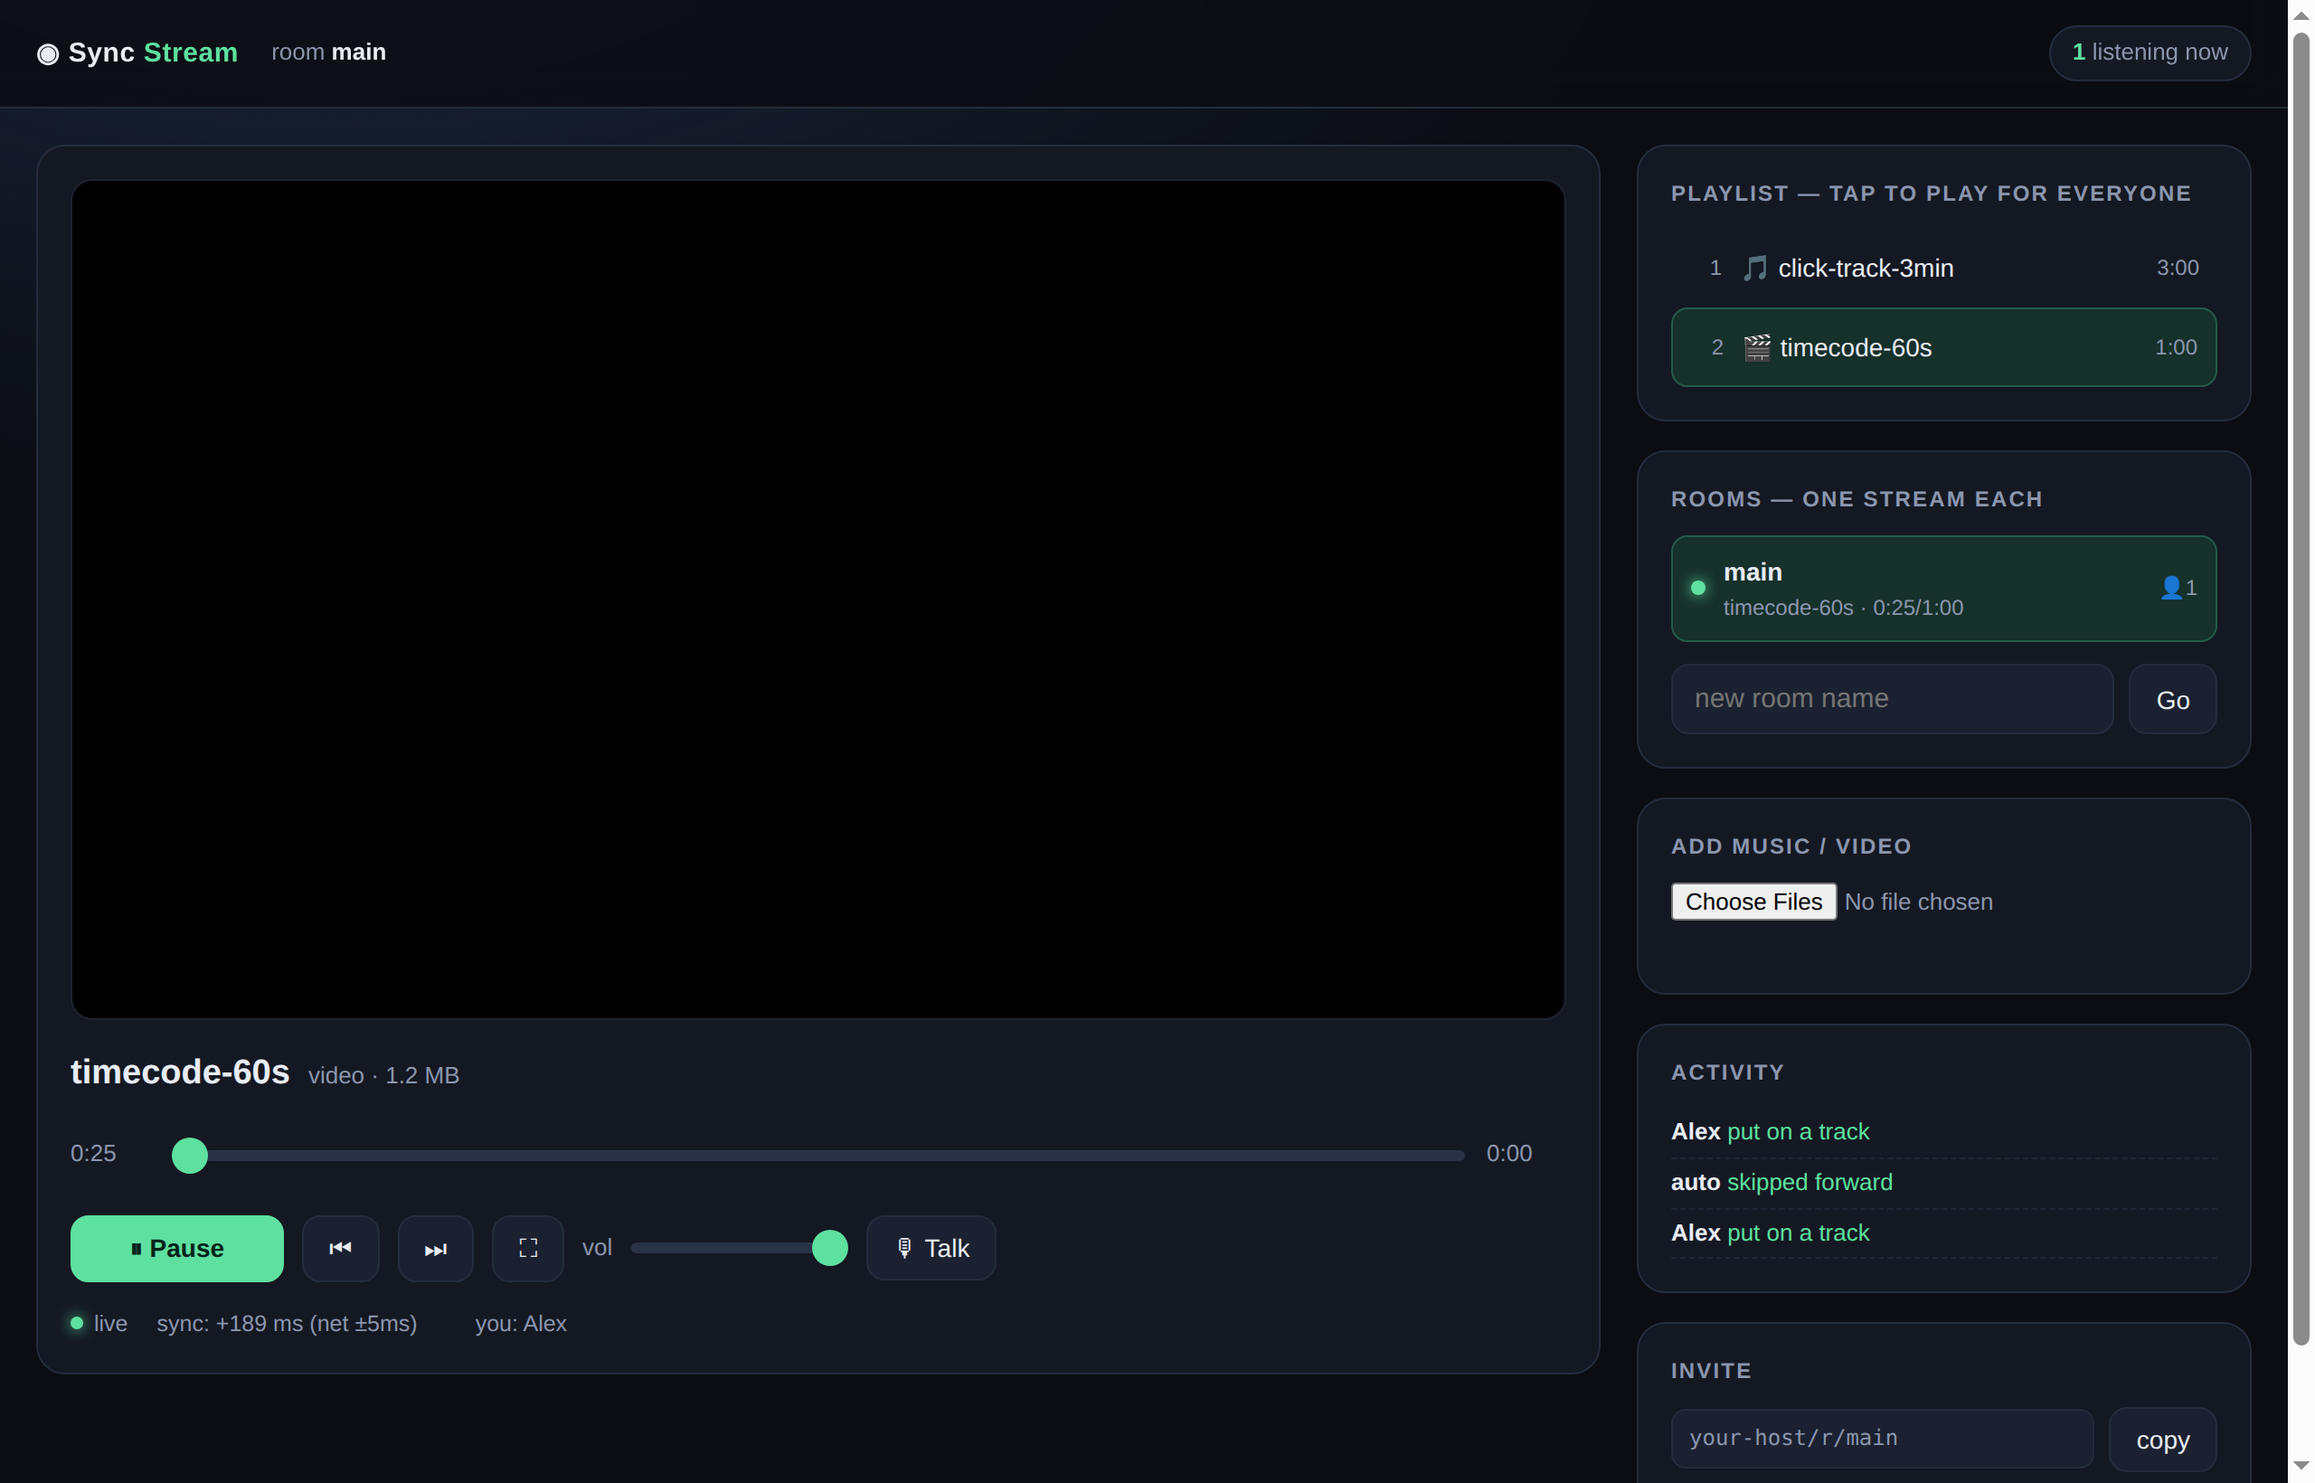
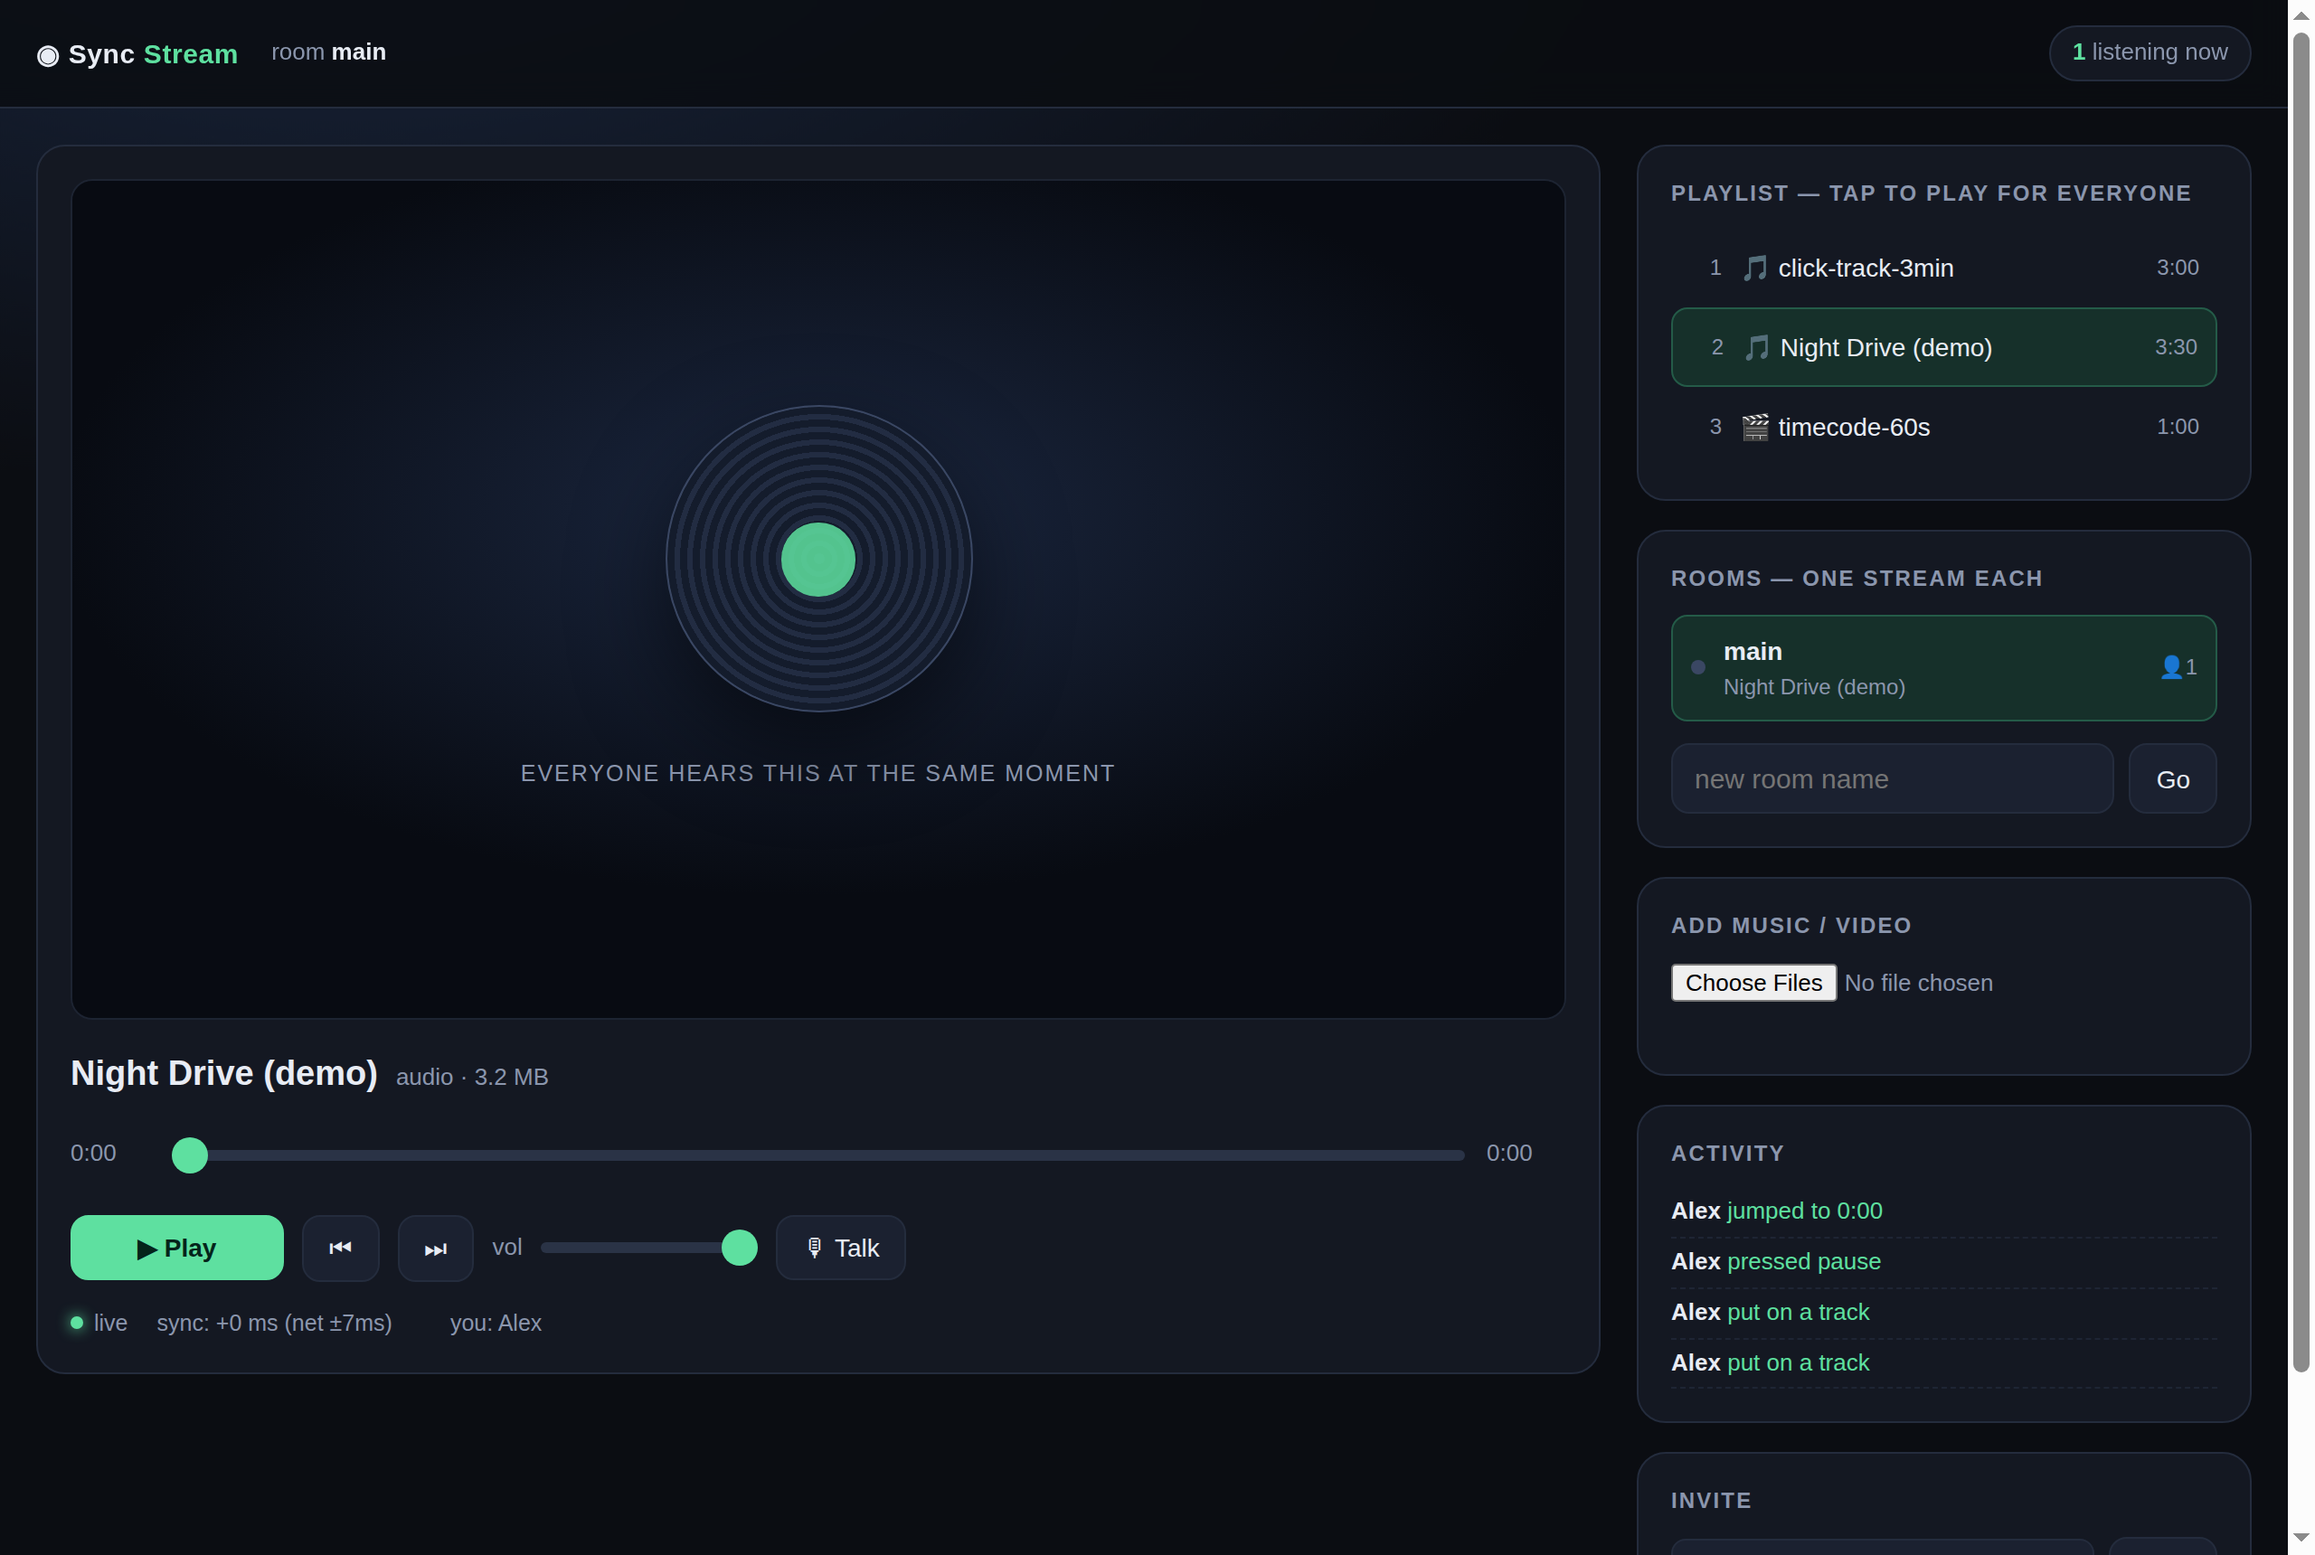
Add screenshots: desktop, phone layout and DJ push-to-talk

diff --git a/README.md b/README.md
@@ -13,6 +13,24 @@ docker compose up -d      # then open http://localhost:8080
 
 ![Sync Stream](docs/screenshot.png)
 
+*Desktop: one shared playhead, a playlist anyone can drive, rooms with what each is playing, and the
+DJ talk button. The status row shows the live link and the current sync error — here `sync: +0 ms
+(net ±8ms)`.*
+
+### On a phone
+
+<img src="docs/mobile.png" alt="Phone layout" width="320">
+
+*The player collapses to a compact card (audio does not need a cinema above the fold) so the playlist
+and rooms are reachable without scrolling.*
+
+### DJ push-to-talk
+
+![DJ on air](docs/talk.png)
+
+*While someone is talking, the room reports it and every device ducks the music to 18 % — quieter,
+not muted — then fades it back.*
+
 ## What it does
 
 - **Tight sync, server-authoritative.** The server publishes `{posMs, anchor}` (the server clock at
